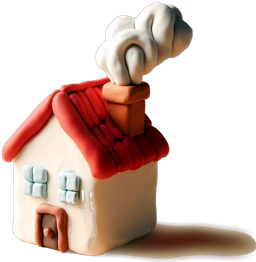
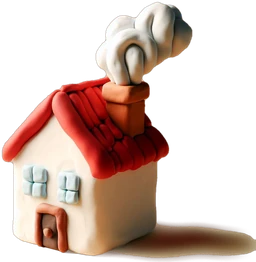
fix: recut house image to keep the full wall and drop the stray dot
The first cutout treated shaded wall edges as cast shadow and made them
transparent. Build the object mask from the largest component, close thin
notches and fill enclosed holes, so only the ground shadow stays soft.

Claude-Session: https://claude.ai/code/session_01T4gzLYjrmPYrvPEheweNQY

diff --git a/src/components/house-mark.tsx b/src/components/house-mark.tsx
@@ -11,7 +11,7 @@ import Image, { type ImageLoaderProps } from 'next/image';
  * smallest one that covers the requested width, so nothing is re-encoded.
  * The untouched originals are in `public/brand/fasi-source/`.
  */
-const SIZES = [256, 512, 848] as const;
+const SIZES = [256, 512, 847] as const;
 
 function houseLoader({ width }: ImageLoaderProps) {
   const size = SIZES.find((s) => s >= width) ?? SIZES[SIZES.length - 1];
@@ -24,8 +24,8 @@ export function HouseMark({ className }: Readonly<{ className?: string }>) {
       loader={houseLoader}
       src="casa-plastelina"
       alt=""
-      width={848}
-      height={869}
+      width={847}
+      height={868}
       sizes="(min-width: 768px) 320px, 70vw"
       className={`object-contain ${className ?? ''}`}
     />

diff --git a/DESIGN.md b/DESIGN.md
@@ -135,7 +135,7 @@ Do not apply 20px radii to dense elements (table cells, calendar bars): it reads
 
 ## Illustration
 
-- The house is FASI's plasticine photo (`public/brand/`, cut out with its soft shadow kept, WebP in 848/512/256 px; originals in `public/brand/fasi-source/`), rendered by `src/components/house-mark.tsx`. It is the wordmark mark, the landing page illustration and the empty-state mark ("No queda res pendent").
+- The house is FASI's plasticine photo (`public/brand/`, cut out with its soft shadow kept, WebP in 847/512/256 px; originals in `public/brand/fasi-source/`), rendered by `src/components/house-mark.tsx`. It is the wordmark mark, the landing page illustration and the empty-state mark ("No queda res pendent").
 - **TODO before launch: confirm FASI's permission to use the image**, or replace it with a commissioned illustration in the same clay style.
 
 ## Anti-Patterns
